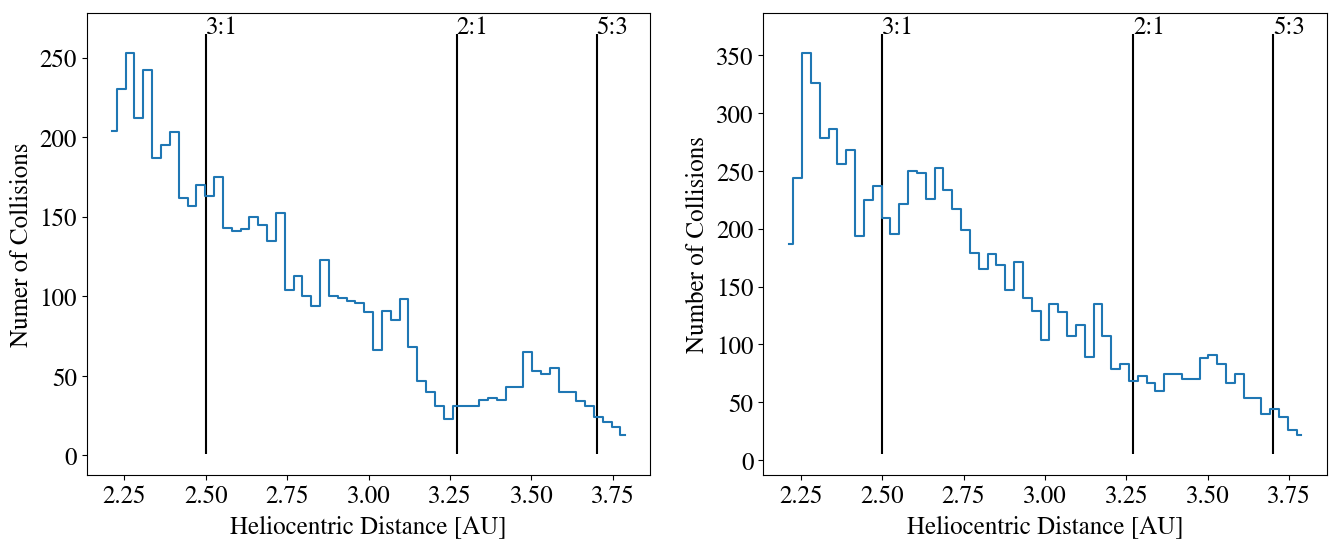
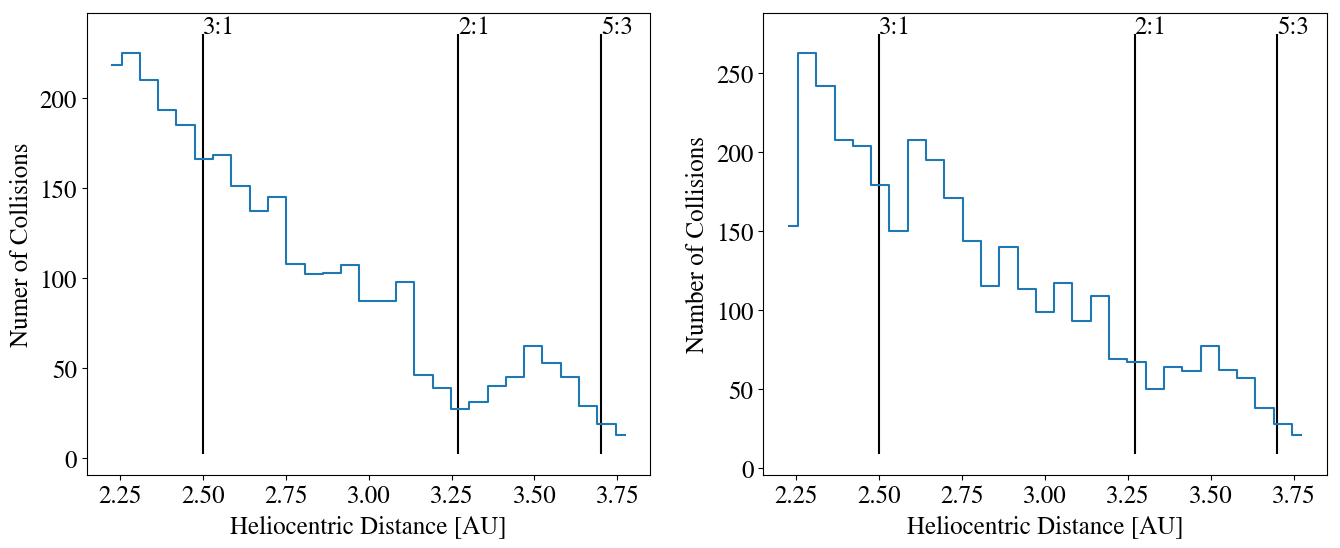
Add todo comments to document, ignore collisions during first few hundred Jupiter orbits

diff --git a/makeFig.py b/makeFig.py
@@ -13,6 +13,8 @@ from astropy.constants import G
 simT = u.year/(2*np.pi)
 simV = u.AU / simT
 
+from scipy import stats
+
 import sys
 sys.path.insert(0, '../OrbitTools/')
 import OrbitTools
@@ -72,9 +74,22 @@ s_e_files = np.array([path + 'hkshiftfull/hkshiftfull.ic']+ \
 	                  ns.natsorted(gl.glob(path + 'hkshiftfull/*.[0-9]*[0-9]')))
 s0_e = pb.load(s_e_files[0])
 
+# Skip the first 2000 years of the collision output. There is a transient feature interior
+# to the 3:1 MMR in the EJ simulation before this time.
+t_skip = 2000
+t_max = 5000
+
+a_in, a_out = 2.2, 3.8
+nbins = 30
+
+# Regenerate existing plots?
+clobber = True
+fmt = 'png'
+s = 0.005
+
 # Collision data
 coll_c = pd.read_csv(path + 'hkshiftfullJupCirc/collisions')
-coll_c = coll_c[coll_c['time']/(2*np.pi) <= 10000]
+coll_c = coll_c[np.logical_and(coll_c['time']/(2*np.pi) <= t_max, coll_c['time']/(2*np.pi) >= t_skip)]
 mc_c = s0_c['mass'][0]
 x_c_c1, y_c_c1, z_c_c1 = coll_c['x1x'], coll_c['x1y'], coll_c['x1z']
 vx_c_c1, vy_c_c1, vz_c_c1 = coll_c['v1x'], coll_c['v1y'], coll_c['v1z']
@@ -97,7 +112,7 @@ a_c_c2, e_c_c2, inc_c_c2, Omega_c_c2, omega_c_c2, M_c_c2 = \
     OrbitTools.cart2kepX(x_c_c2, y_c_c2, z_c_c2, vx_c_c2, vy_c_c2, vz_c_c2, mc_c, m2_c)
 
 coll_e = pd.read_csv(path + 'hkshiftfull/collisions')
-coll_e = coll_e[coll_e['time']/(2*np.pi) <= 10000]
+coll_e = coll_e[np.logical_and(coll_e['time']/(2*np.pi) <= t_max, coll_e['time']/(2*np.pi) >= t_skip)]
 mc_e = s0_e['mass'][0]
 x_c_e1, y_c_e1, z_c_e1 = coll_e['x1x'], coll_e['x1y'], coll_e['x1z']
 vx_c_e1, vy_c_e1, vz_c_e1 = coll_e['v1x'], coll_e['v1y'], coll_e['v1z']
@@ -118,18 +133,11 @@ coll_dist_e2 = np.sqrt(x_c_e2**2 + y_c_e2**2)
 a_c_e2, e_c_e2, inc_c_e2, Omega_c_e2, omega_c_e2, M_c_e2 = \
     OrbitTools.cart2kepX(x_c_e2, y_c_e2, z_c_e2, vx_c_e2, vy_c_e2, vz_c_e2, mc_e, m2_e)
 
-a_in, a_out = 2.2, 3.8
-
-# Regenerate existing plots?
-clobber = True
-fmt = 'png'
-s = 0.005
-
 def make_rtheta():
 	file_str = 'figures/rtheta.' + fmt
 	if not clobber and os.path.exists(file_str):
 		return
-	s_c, s_e = pb.load(s_c_files[-1]), pb.load(s_e_files[-26])
+	s_c, s_e = pb.load(s_c_files[-1]), pb.load(s_e_files[-1])
 	pl_c, pl_e = OrbitTools.orb_params(s_c), OrbitTools.orb_params(s_e)
 	x_c, y_c = pl_c['pos'][:,0], pl_c['pos'][:,1]
 	r_c, theta_c = np.sqrt(x_c**2 + y_c**2), np.arctan2(y_c, x_c) + np.pi
@@ -173,7 +181,7 @@ def make_long_ph():
 	file_str = 'figures/long_ph.' + fmt
 	if not clobber and os.path.exists(file_str):
 		return
-	s_c, s_e = pb.load(s_c_files[-1]), pb.load(s_e_files[-26])
+	s_c, s_e = pb.load(s_c_files[-1]), pb.load(s_e_files[-1])
 	pl_c, pl_e = OrbitTools.orb_params(s_c), OrbitTools.orb_params(s_e)
 
 	fig, ax = plt.subplots(figsize=(8,8))
@@ -189,10 +197,10 @@ def make_coll_hist_a():
 	if not clobber and os.path.exists(file_str):
 		return
 
-	coll_hist_a_c, coll_bins_a_c = np.histogram(a_c_c1, bins=np.linspace(a_in, a_out, num=60))
+	coll_hist_a_c, coll_bins_a_c = np.histogram(a_c_c1, bins=np.linspace(a_in, a_out, num=nbins))
 	coll_bins_a_c = 0.5*(coll_bins_a_c[1:] + coll_bins_a_c[:-1])
 
-	coll_hist_a_e, coll_bins_a_e = np.histogram(a_c_e1, bins=np.linspace(a_in, a_out, num=60))
+	coll_hist_a_e, coll_bins_a_e = np.histogram(a_c_e1, bins=np.linspace(a_in, a_out, num=nbins))
 	coll_bins_a_e = 0.5*(coll_bins_a_e[1:] + coll_bins_a_e[:-1])
 
 	fig, (ax1, ax2) = plt.subplots(figsize=(16,6), nrows=1, ncols=2, sharey=True)
@@ -213,10 +221,10 @@ def make_coll_hist_r():
 	if not clobber and os.path.exists(file_str):
 		return
 
-	coll_hist_r_c, coll_bins_r_c = np.histogram(coll_dist_c1, bins=np.linspace(a_in, a_out, num=60))
+	coll_hist_r_c, coll_bins_r_c = np.histogram(coll_dist_c1, bins=np.linspace(a_in, a_out, num=nbins))
 	coll_bins_r_c = 0.5*(coll_bins_r_c[1:] + coll_bins_r_c[:-1])
 
-	coll_hist_r_e, coll_bins_r_e = np.histogram(coll_dist_e1, bins=np.linspace(a_in, a_out, num=60))
+	coll_hist_r_e, coll_bins_r_e = np.histogram(coll_dist_e1, bins=np.linspace(a_in, a_out, num=nbins))
 	coll_bins_r_e = 0.5*(coll_bins_r_e[1:] + coll_bins_r_e[:-1])
 
 	fig, (ax1, ax2) = plt.subplots(figsize=(16,6), nrows=1, ncols=2, sharey=False)
@@ -237,7 +245,7 @@ def make_m_hist():
 	if not clobber and os.path.exists(file_str):
 		return
 
-	a11, a12 = 3.22, 3.33
+	a11, a12 = 3.2, 3.34
 	a21, a22 = 2.7, 2.8
 
 	def ang_diff(ang1, ang2):
@@ -282,9 +290,66 @@ def make_m_hist():
 	ax[1,1].set_title(str(a21) + ' < a < ' + str(a22) + ' (' + str(len(M_c_c1[mask])) + ' coll)')
 	plt.savefig(file_str, format=fmt, bbox_inches='tight')
 
+def make_saf_nbody():
+	file_str = 'figures/saf_nbody.' + fmt
+	if not clobber and os.path.exists(file_str):
+		return
+
+	def get_Ndot(s_final, pl_final):
+		x, y = pl_final['pos'][:,0], pl_final['pos'][:,1]
+		r = np.sqrt(x**2 + y**2)
+		p = pb.analysis.profile.Profile(pl_final, min=a_in, max=a_out, nbins=nbins)
+		surf_den = (p['density']*u.M_sun/u.AU**2)
+		# Calculate safronov collision rates as in Boley 2017, except get v_rel from eccentricity and inclination
+		# dispersion. The method used in Boley 2017 doesnt work if planetesimals are on eccentric orbits due to
+		# secular forcing
+
+		v_k = np.sqrt(s_final['mass'][0]/pl_final['a'])
+		v_rel = np.sqrt(pl_final['e']**2 + pl_final['inc']**2)*v_k
+
+		mask = np.logical_and(r > np.min(p['rbins']), r < np.max(p['rbins']))
+
+		rho_p = (2 * u.g/u.cm**3).to(u.M_sun/u.AU**3).value
+		R = (150 * u.km).to(u.AU).value
+		T = 2*np.pi*np.sqrt(pl_final['a'][mask]**3/s_final['mass'][0])
+
+		F_g = 1 + 8*np.pi*rho_p*R**2/(3*v_rel[mask]**2)
+
+		surf_den_at = surf_den[np.digitize(r[mask], p['rbins'])].value
+		Ndot = 6*np.pi*surf_den_at*F_g/(rho_p*R*T)
+
+		bins = np.linspace(a_in, a_out, num=nbins+1)
+		result = stats.binned_statistic(r[mask], Ndot, bins=bins, statistic='median')
+
+		result_vrel = stats.binned_statistic(r[mask], v_rel[mask], bins=bins, statistic='median')
+		vrel_stat = result_vrel.statistic
+
+		return p, result.statistic
+
+	s_c, s_e = pb.load(s_c_files[-1]), pb.load(s_e_files[-1])
+	pl_c, pl_e = OrbitTools.orb_params(s_c), OrbitTools.orb_params(s_e)
+	prof_c, Ndot_c = get_Ndot(s_c, pl_c)
+	prof_e, Ndot_e = get_Ndot(s_e, pl_e)
+	coll_hist_r_c, coll_bins_r_c = np.histogram(coll_dist_c1, bins=np.linspace(a_in, a_out, num=nbins))
+	coll_bins_r_c = 0.5*(coll_bins_r_c[1:] + coll_bins_r_c[:-1])
+	coll_hist_r_e, coll_bins_r_e = np.histogram(coll_dist_e1, bins=np.linspace(a_in, a_out, num=nbins))
+	coll_bins_r_e = 0.5*(coll_bins_r_e[1:] + coll_bins_r_e[:-1])
+
+	fig, (ax1, ax2) = plt.subplots(figsize=(16,6), nrows=1, ncols=2, sharey=False)
+	ax1.plot(prof_c['rbins'], Ndot_c*(2*np.pi)*prof_c['n'])
+	ax1.plot(coll_bins_r_c, coll_hist_r_c/(t_max - t_skip), linestyle='steps-mid')
+	ax1.set_xlabel('Heliocentric Distance [AU]')
+	ax1.set_ylabel('Collision Rate (per yr)')
+	ax2.plot(prof_e['rbins'], Ndot_e*(2*np.pi)*prof_e['n'])
+	ax2.plot(coll_bins_r_e, coll_hist_r_e/(t_max - t_skip), linestyle='steps-mid')
+	ax2.set_xlabel('Heliocentric Distance [AU]')
+	ax2.set_ylabel('Collision Rate (per yr)')
+	plt.savefig(file_str, format=fmt, bbox_inches='tight')
+
 make_rtheta()
 make_ae()
 make_long_ph()
 make_coll_hist_a()
 make_coll_hist_r()
 make_m_hist()
+make_saf_nbody()

diff --git a/main.tex b/main.tex
@@ -22,6 +22,14 @@ A perturbing planet can leave a lasting imprint a debris disk near the locations
 
 \section{Introduction} \label{sec:intro}
 
+%Things to change/do:
+%    Transient feature in EJ collision rate before 2000 years. Only want to look at collisions after this time. Justify the cutoff (maybe something to do with precession in 3:1 MMR?)
+%    Safronov and Nbody collision rates. Not matching up well near resonance. The 'wings' from the resonances mess up calculation of velocity dispersion. Maybe do comparison
+%       no grav focusing?
+%    Add newlines in paragraphs so this file looks ok on github and in terminal text editor
+%    Get Aaron to make some dust emission makes from the Nbody collision histograms
+%    Can we scale these results to any size system? Get rid of units. How to justify planetesimal size?
+
 Recent observations of circumstellar disks by ALMA have revealed a rich variety of substructure in the millimeter wavelength contiunuum emission. Features such as gaps and asymmetries \citep{2015ApJ...808L...3A, 2016Sci...353.1519P, PhysRevLett.117.251101, 2016ApJ...820L..40A, 2016Natur.535..258C} in the emission provide diagnostics for the physical processes that drive the evolution of the disks. At these wavelengths, much of this light is produced by second-generation debris generated through collisional grinding of planetesimals \citep[see][]{2008ARA&A..46..339W}. 
 
 In some cases, these gap features are argued to be an indicator for the presence of a giant planet, either embedded in the disk \citep{2015MNRAS.453L..73D} or orbiting externally. An giant perturber can influence the structure of the dust emission in a number of ways. A misaligned giant planet can produce nonaxisymmetric features such as warps \citep{2001A&A...370..447A}. Highly eccentric perturbers can produce even more complicated structures through secular perturbations \citep{2014MNRAS.443.2541P, 2015MNRAS.448.3679P}. Mean motion resonances (MMRs) have been shown to open gaps as well \citep{2015ApJ...798...83N, 2016ApJ...818..159T, 2018ApJ...857....3T}.
